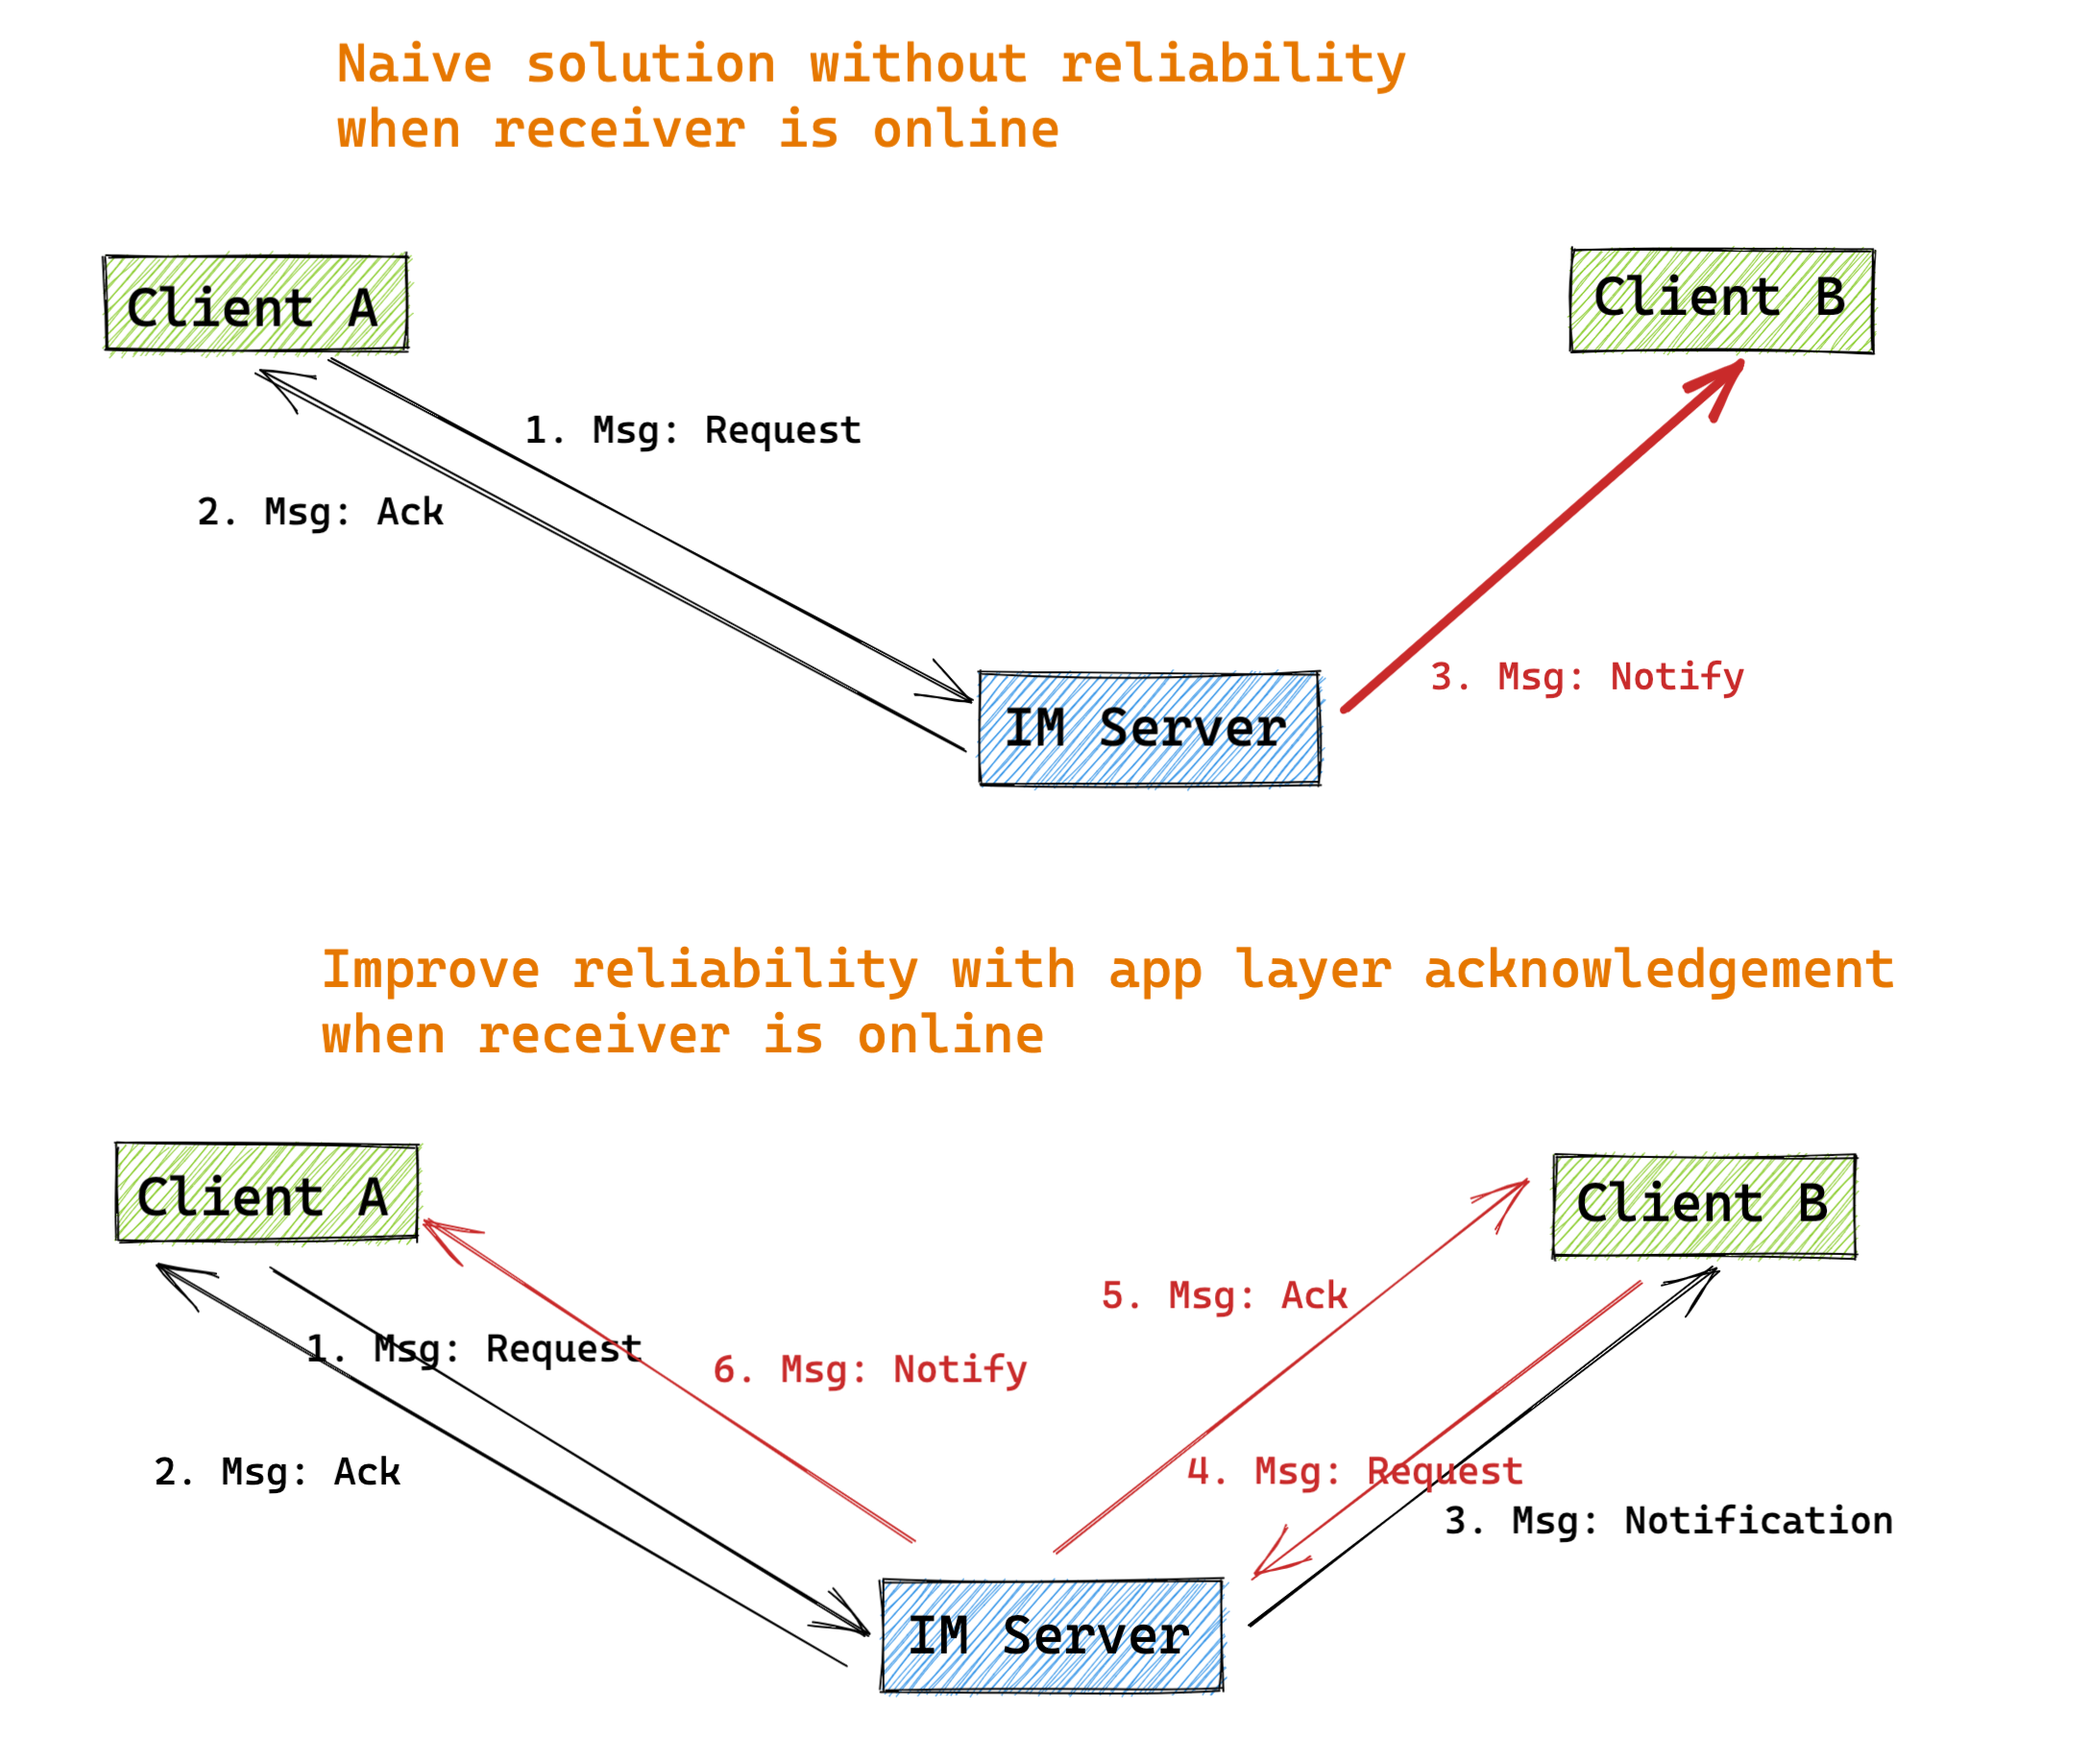
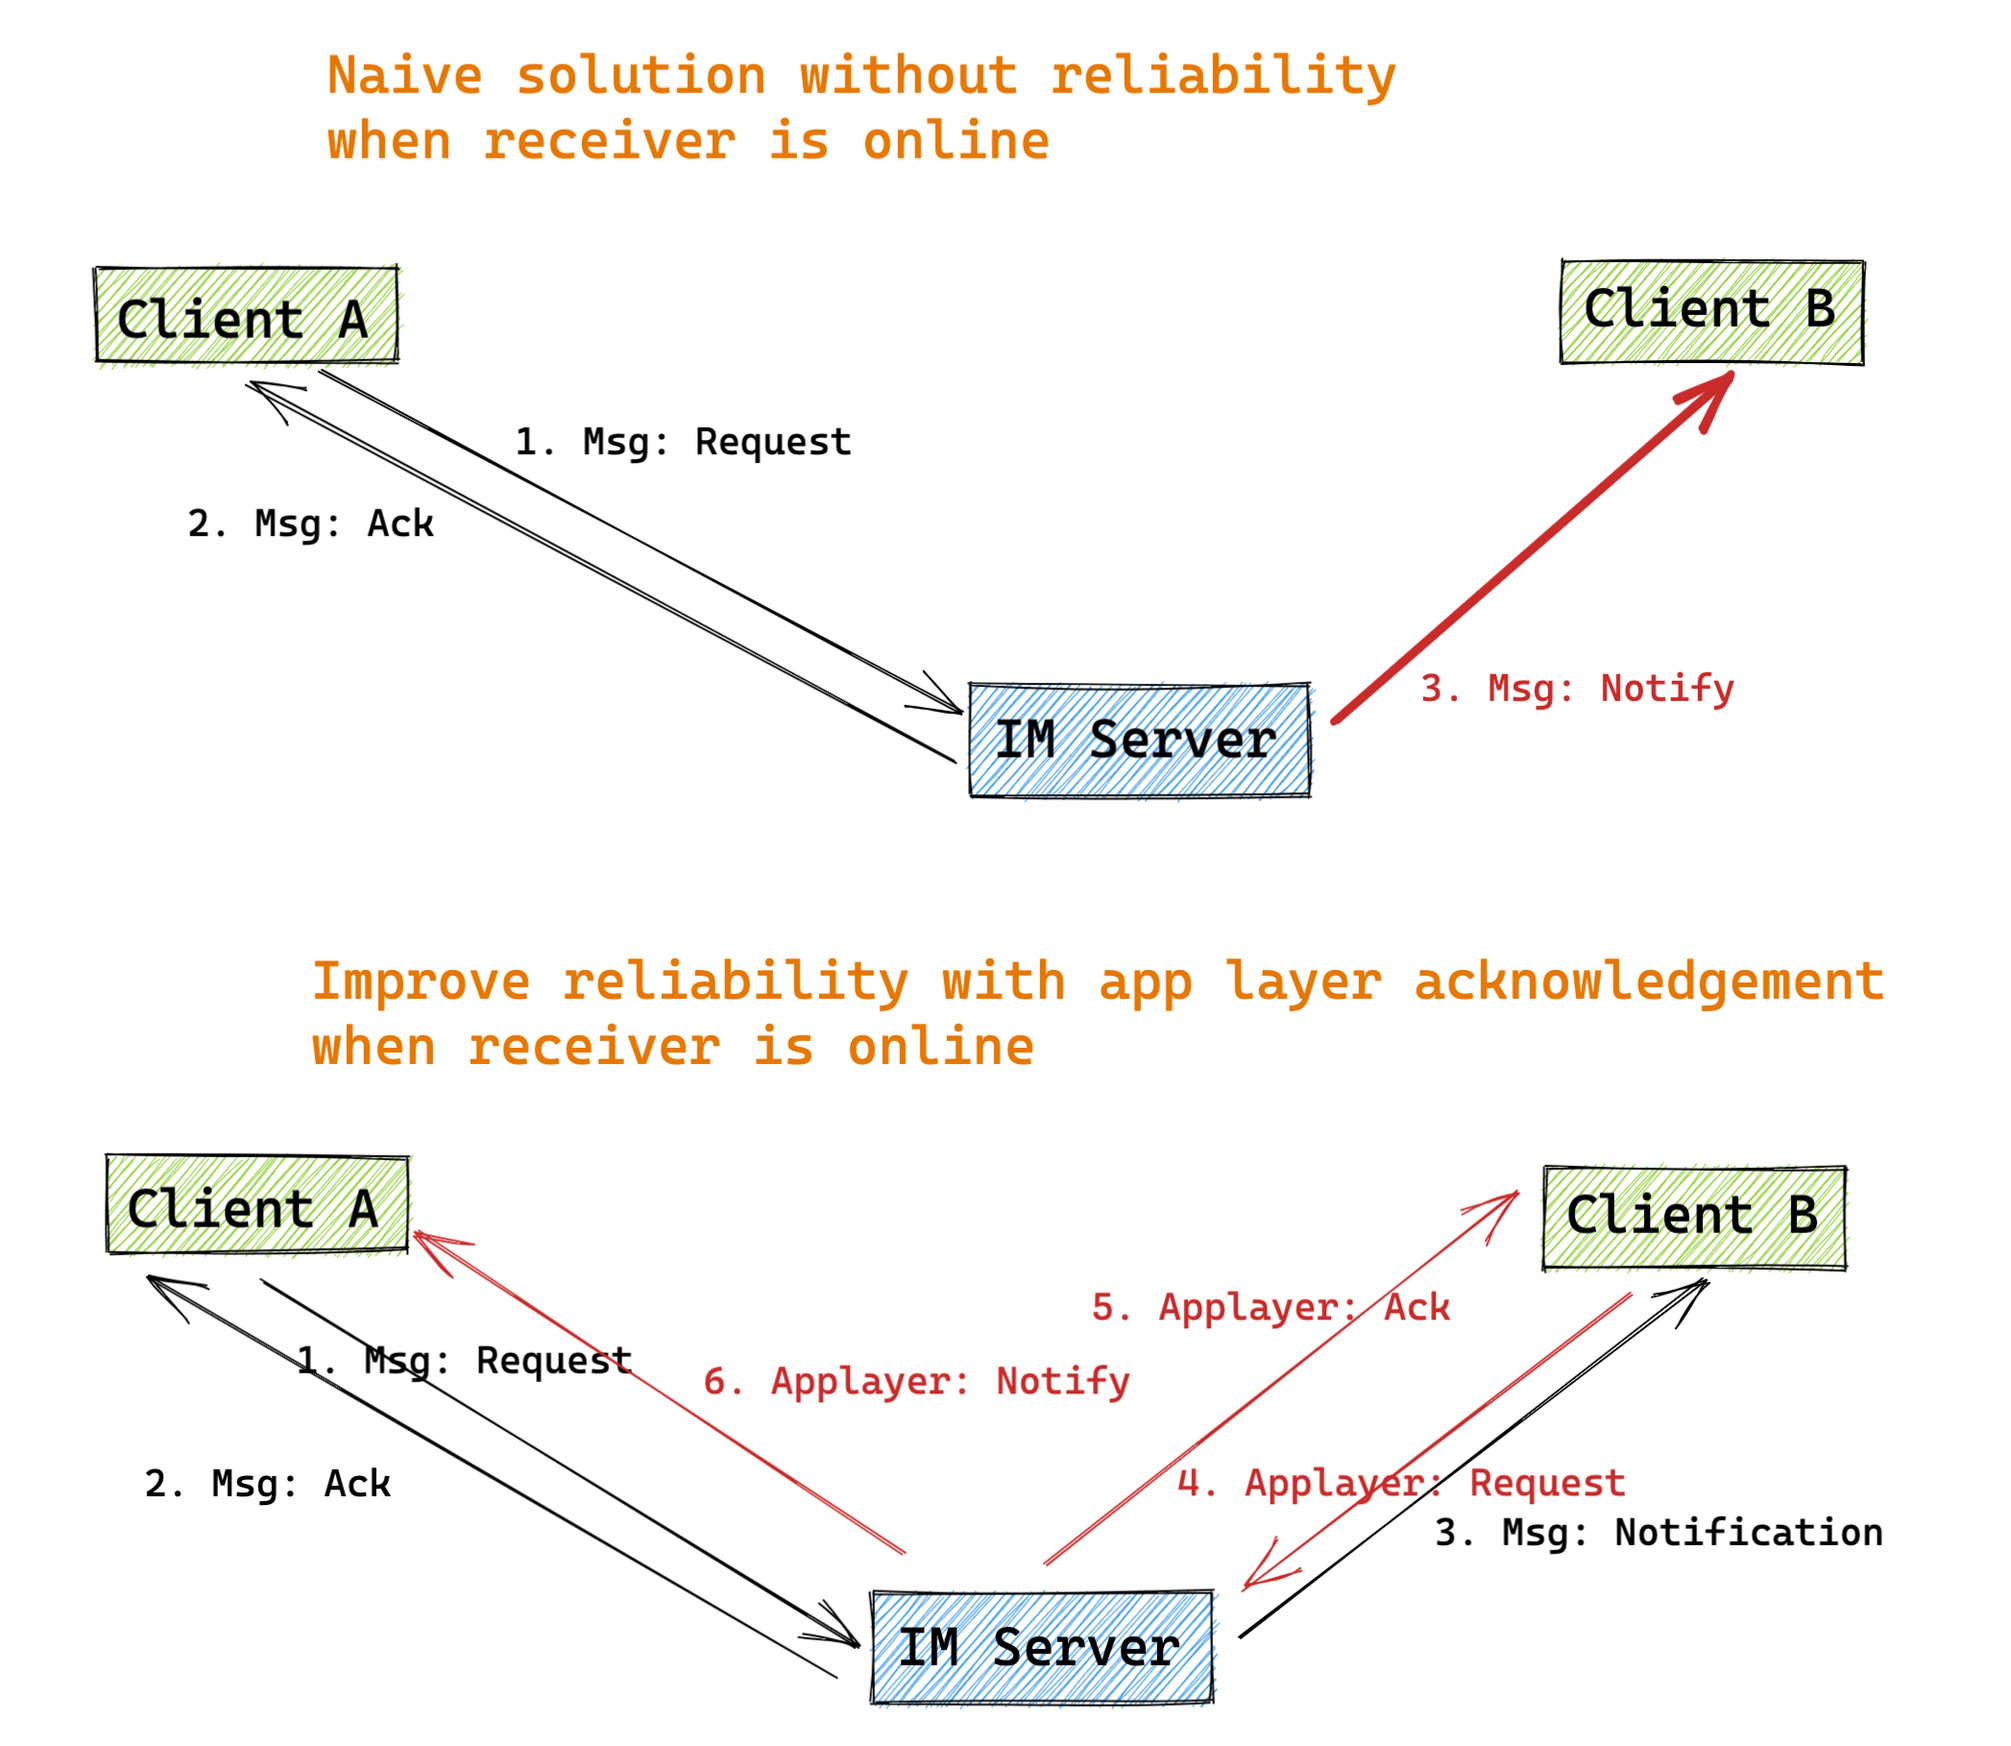
refactor

diff --git a/scenario_messenger/nonFuncReliability.md b/scenario_messenger/nonFuncReliability.md
@@ -1,12 +1,17 @@
-- [Reliability (No missing and duplication)](#reliability-no-missing-and-duplication)
+- [Reliability](#reliability)
+  - [Goal](#goal)
   - [When user is online](#when-user-is-online)
     - [Improve naive solution with app layer acknowledgement](#improve-naive-solution-with-app-layer-acknowledgement)
+    - [Improve with resend and dedupe](#improve-with-resend-and-dedupe)
   - [When user is offline](#when-user-is-offline)
   - [Flow chart](#flow-chart)
   - [Resend and dedupe](#resend-and-dedupe)
   - [Completeness check](#completeness-check)
 
-# Reliability (No missing and duplication)
+# Reliability 
+## Goal
+* No missing 
+* No duplication
 
 ## When user is online
 
@@ -19,6 +24,15 @@
 * Client B sends a confirmation request after it successfully processed the message. Its flow will be symmetric to the naive solution.
 
 ![](../.gitbook/assets/im_nonfunc_reliability_online.png)
+
+### Improve with resend and dedupe
+* Potential issues
+  * Any of packages (Msg: Request / Msg: Ack) is lost: 
+    * Client A could simply resend will solve the problem. 
+  * Any of packages (Msg: Notify / Applayer: Request / Applayer: Ack / Applayer: Notify) is lost:
+    * The reason could be server crash, network jitter, client crash.
+
+![](../.gitbook/assets/im_nonfunc_reliability_online_resenddedupe.png)
 
 ## When user is offline
 
